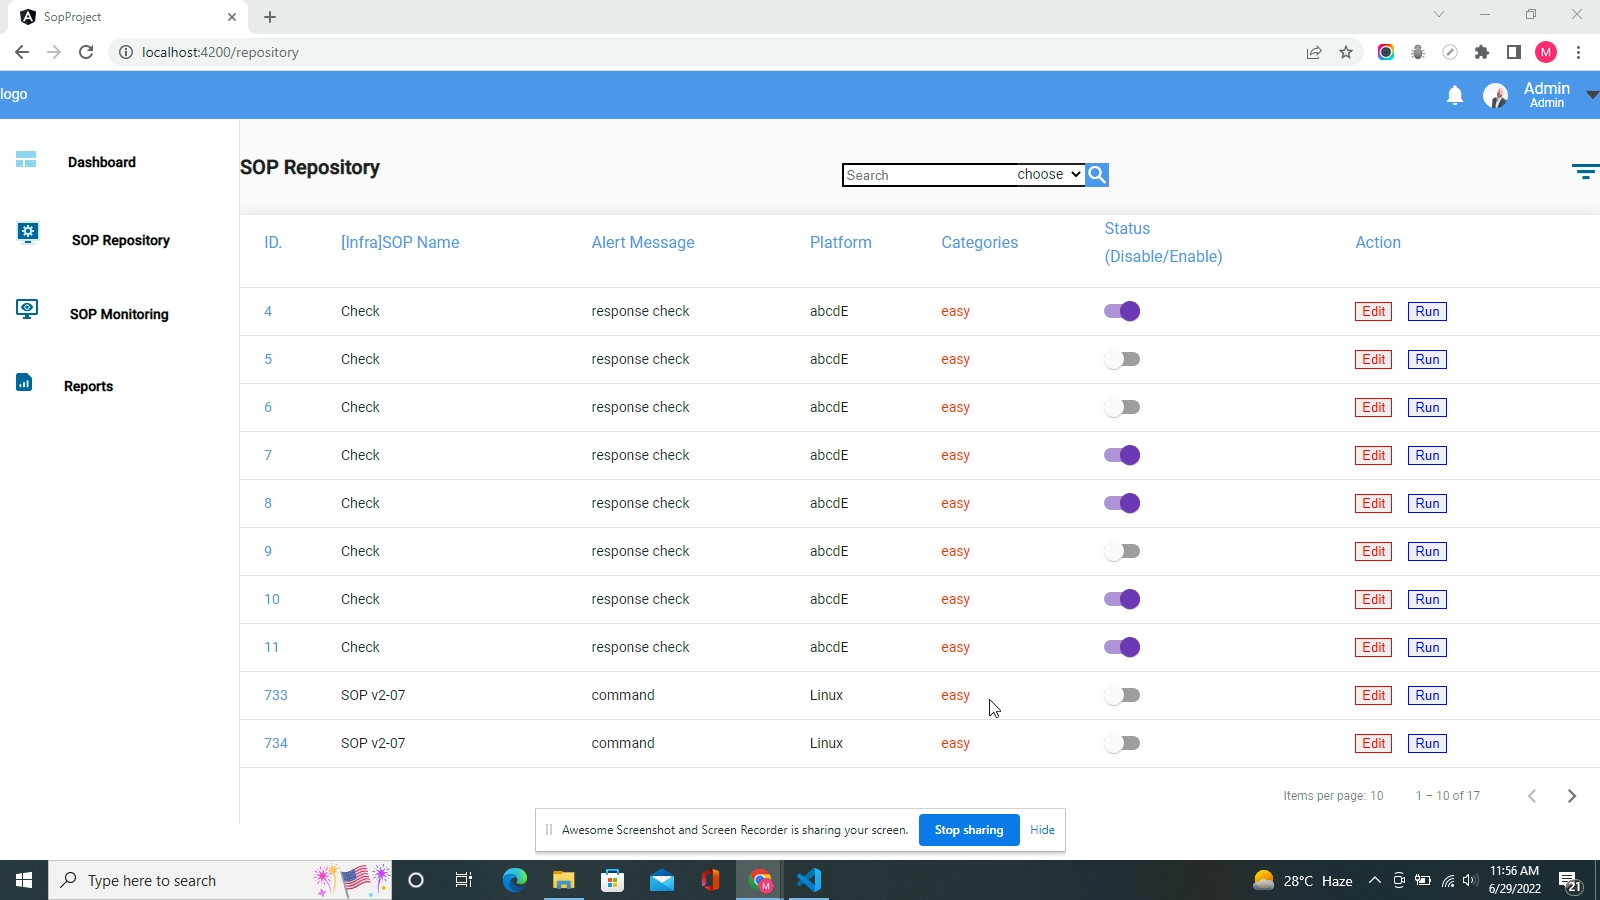
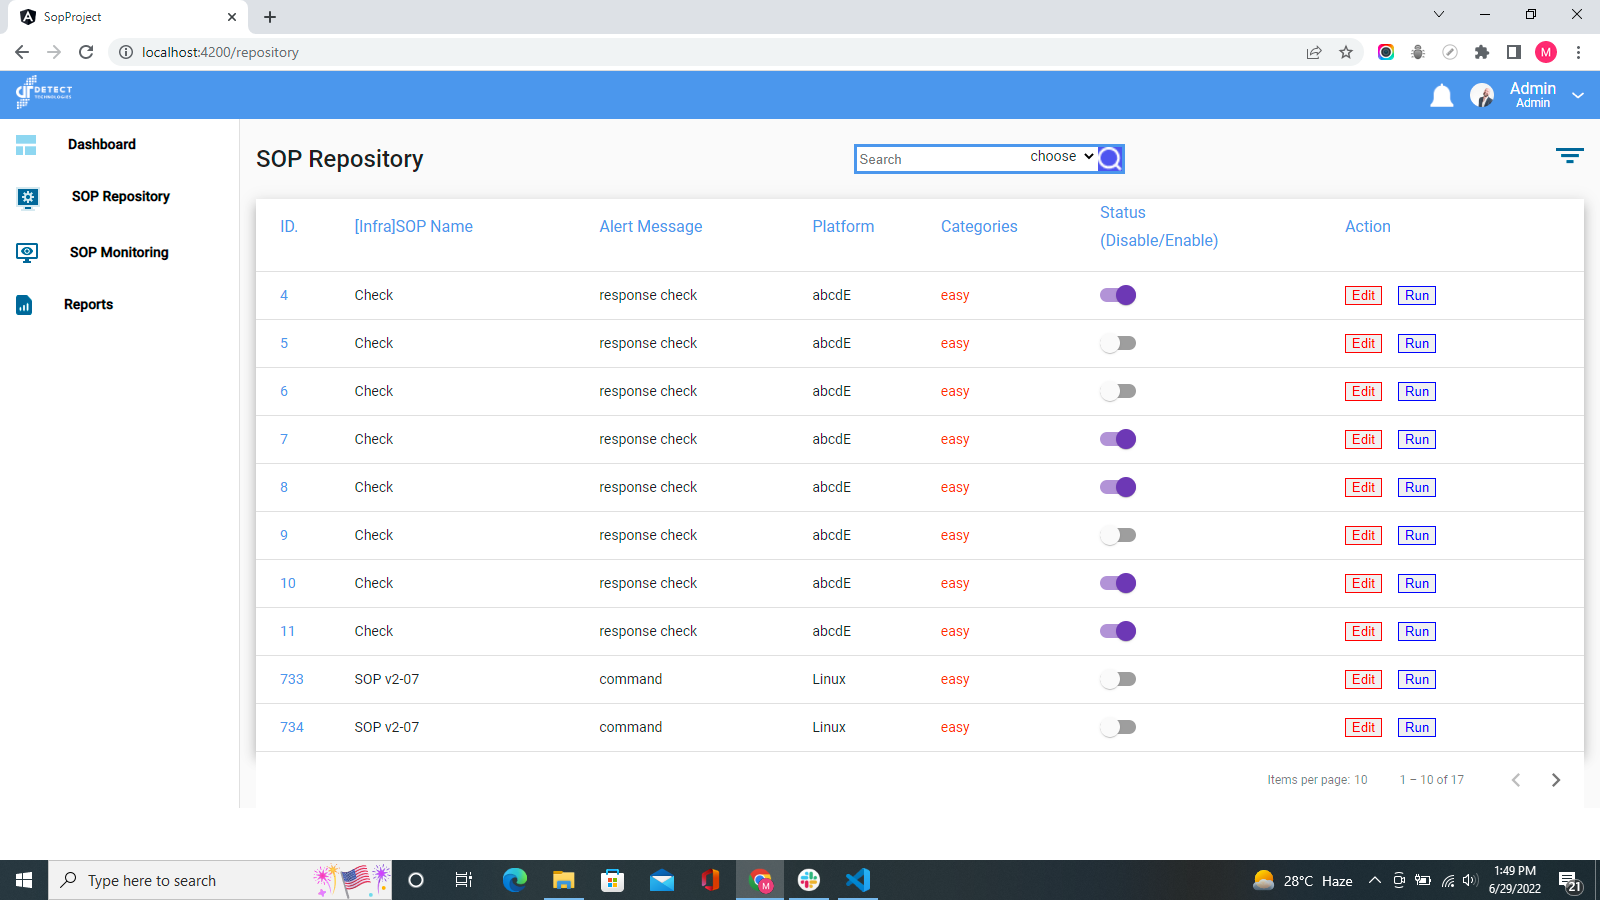
layout alignment

diff --git a/src/app/header/header.component.html b/src/app/header/header.component.html
@@ -1,14 +1,14 @@
 <header>
     <div class="left">
-        logo
+        <img style="margin-left: 1rem;width: 3.5rem; " class="item1" src="../assets/images/logo.png" alt="">
     </div>
     <div class="right" style="display: flex">
-        <mat-icon style="margin-left: 1rem" style="color:white" >notifications</mat-icon>
-        <img style="margin-left: 1rem" class="item1" src="../assets/images/headerImg.png" alt="">
+        <img style="margin-left: 1rem;width: 1.5rem;" class="item1" src="../assets/images/notification.png" alt="">
+        <img style="margin-left: 1rem;width: 1.5rem;" class="item1" src="../assets/images/headerImg.png" alt="">
         <div style="margin-left: 1rem" class="right_menu">
             <h3>Admin</h3>
             <h5>Admin</h5>
         </div>
-        <img style="margin-left: 1rem" class="item2" src="../assets/images/selectDownArrow.png" alt="">
+        <img style="margin-left: 1rem;" class="item2" src="../assets/images/arrowDown.png" alt="">
     </div>
 </header>

diff --git a/src/app/app.module.ts b/src/app/app.module.ts
@@ -16,7 +16,6 @@ import { DialogComponent } from './repository/dialog/dialog.component';
 import { MatCommonModule } from '@angular/material/core';
 import { MatSlideToggleModule } from '@angular/material/slide-toggle'
 import { dummy_data } from './models/repository_data';
-import { MatIconModule } from '@angular/material/icon';
 import {MatSidenavModule} from '@angular/material/sidenav';
 import { MatTableModule } from '@angular/material/table';
 import { MatFormFieldModule } from '@angular/material/form-field';
@@ -46,7 +45,6 @@ import { MatPaginatorModule } from '@angular/material/paginator';
     MatTableModule,
     MatFormFieldModule,
     MatSlideToggleModule,
-    MatIconModule,
     MatInputModule,
     MatSidenavModule,
     FormsModule,

diff --git a/src/app/title/title.component.css b/src/app/title/title.component.css
@@ -2,27 +2,24 @@
     display: flex;
     justify-content: space-between;
     align-items: center;
-    margin-top: 1rem;
     width: 100%;
     height: 5rem;
 }
-mat-icon{
-    color: white;
-    background-color: cornflowerblue;
-    margin: 0px;
-    padding: 0px;
+.item1{
+    font-size: 1.5rem;
+    font-weight: 500;
 }
 .item2{
     display: flex;
+    border: 3px solid cornflowerblue;
 }
 input{
-    border: 2px solid;
+    border: none;
     border-right: none;
 }
 label{
     border: 2px solid;
-    border-left: none;
-    border-right: none;
+    border: none;
     background-color: white;
 }
 select{

diff --git a/src/app/title/title.component.html b/src/app/title/title.component.html
@@ -1,7 +1,9 @@
 <div class="container">
-    <h2 class="item1"><b>SOP Repository</b></h2>
+    <div class="item1">
+        SOP Repository
+    </div>
     <form class="item2">
-            <input type="text" placeholder="Search"><label>choose<select></select></label><mat-icon>search</mat-icon>
+            <input type="text" placeholder="Search"><label>choose<select></select></label><img src="./assets/images/search.png" alt="" style="background-color: rgb(85, 85, 241); width: 1.5rem; height: 1.5rem;">
     </form>
     <div class="item3">
         <img src="./assets/images/filter.png" alt="">

diff --git a/src/app/navbar/navbar.component.css b/src/app/navbar/navbar.component.css
@@ -18,7 +18,7 @@ a{
     font-weight: bolder;
 }
 .item{
-    margin-top: 1rem;
+    display: flex;
     width: 100%;
     padding-top: 1rem;
     padding-bottom: 1rem;
@@ -30,6 +30,7 @@ a{
     opacity: 0.5;
     background-color: cornflowerblue;
     font-weight: bolder;
+    box-shadow: inset -5px 0px blue;
 }
 
 img , a{

diff --git a/src/app/header/header.component.css b/src/app/header/header.component.css
@@ -10,9 +10,7 @@ header{
 .right{
     display: flex;
     align-items: center;
-}
-img.item1{
-    width: 25px;
+    margin-right: 1rem;
 }
 .right_menu{
     display: flex;

diff --git a/src/app/app.component.css b/src/app/app.component.css
@@ -10,3 +10,8 @@ mat-drawer{
 mat-drawer-content .item2{
     min-height: 15rem;
 }
+
+mat-drawer-content .item1,.item2{
+    margin-left: 1rem;
+    margin-right: 1rem;
+}
